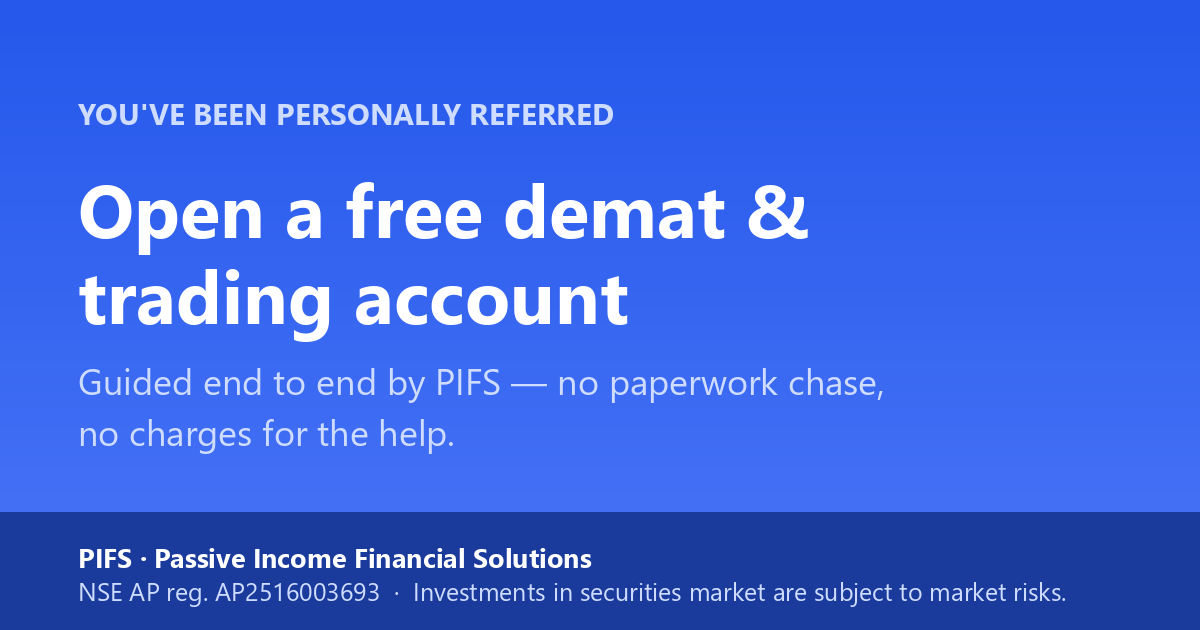
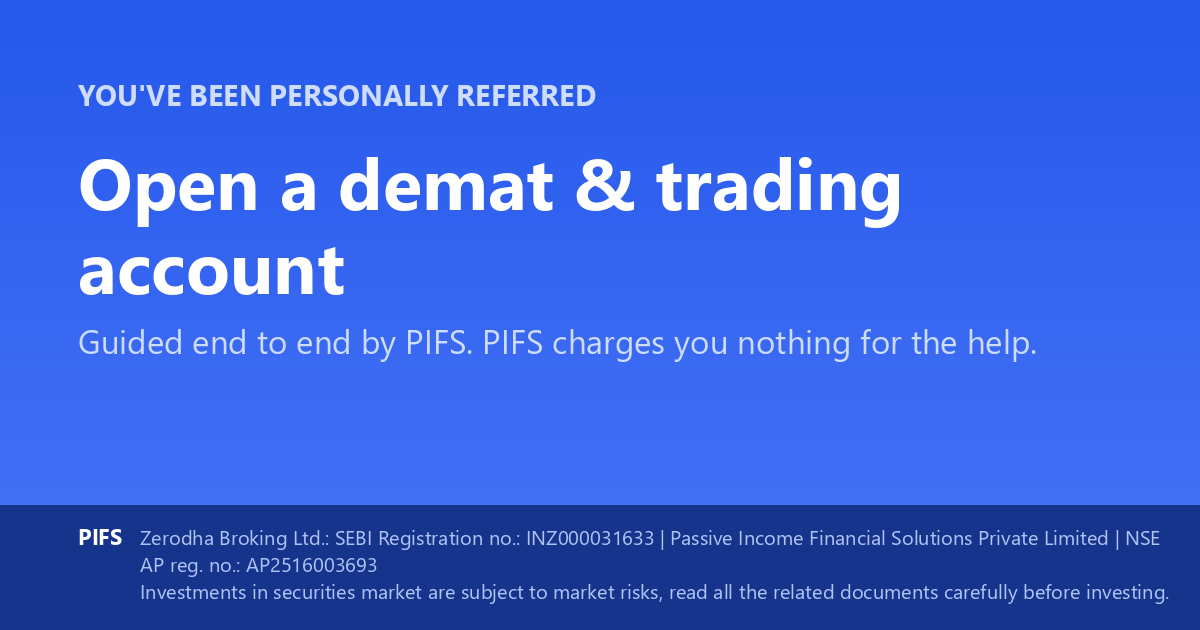
feat(hub): compliance-reviewed share copy + a real link-preview card generated from the canonical strings
The preview card every referrer forwards was a BLANK BLUE RECTANGLE with no text -
that is what WhatsApp showed for every shared referral link. Replaced with a PIFS card,
and the hub's placeholder copy replaced with copy that actually asks for the share.

An independent AP-compliance review BLOCKED the first draft; every finding is fixed here:
- 'we make sure your name is on the referral' -> a promise GoRefer is architecturally
  forbidden to make (Zoho is the only source of credit; no referrer in Zoho = no credit).
  Now: we record and pass on the referral, never calculate or hold the amount.
- 'free of charge' -> undisclosed compensation. Now states PIFS is paid by the broker as
  its Authorised Person, and that account/brokerage charges are the broker's own.
- 'Open a free demat account' on the card -> a claim about the BROKER's pricing baked into
  a raster. 'free' dropped.
- The card truncated MARKET_RISK_WARNING by 60 characters (dropping the whole 'read all
  the related documents' limb) and omitted the broker's SEBI registration from the AP
  disclosure - the two strings this codebase locks byte-exact, wrong in the highest-volume
  place they appear, uncorrectable by config.
- 'say why YOU use it' now carries an explicit fence: do not promise returns or advise.

Structural fix for the last one: the card is no longer hand-made. scripts/make_preview_card.py
RENDERS it from settings.AP_DISCLOSURE_BLOCK + settings.MARKET_RISK_WARNING and writes every
[…]

diff --git a/scripts/make_preview_card.py b/scripts/make_preview_card.py
@@ -1,0 +1,131 @@
+"""Render the PIFS referral link-preview card (1200x630 Open Graph).
+
+WHY THIS IS A GENERATOR AND NOT A HAND-MADE IMAGE
+-------------------------------------------------
+The card is the highest-volume surface the compliance strings ever appear on: every
+referrer forwards it to every friend. Text baked into a raster cannot be corrected by a
+config change, so a hand-drawn card is the one place `MARKET_RISK_WARNING` and
+`AP_DISCLOSURE_BLOCK` can silently drift out of date (2026-08-08 compliance review: the
+first hand-made card truncated the statutory warning by 60 characters and omitted the
+broker's SEBI registration entirely).
+
+So the card is GENERATED from `gorefer.settings` — the same byte-exact constants every
+page renders — and every string it draws is also written to a sidecar
+`static/img/referral-preview-card.txt`. `tests/test_preview_card_compliance.py` asserts
+that sidecar still matches settings, so editing a compliance string without regenerating
+the card FAILS CI instead of shipping a stale legal line.
+
+Run after any change to the compliance constants or the card design:
+
+    python scripts/make_preview_card.py     # needs Pillow (dev-only, not a runtime dep)
+
+Design constraints (CLAUDE.md §4, ADR-014): PIFS-branded, no partner logo or trademark,
+must not resemble the partner's own assets. The broker is NAMED in the disclosure line
+because an Authorised Person must disclose its principal — naming is disclosure, not
+impersonation; a card that names no broker implies PIFS opens the accounts itself.
+"""
+from __future__ import annotations
+
+import os
+import sys
+from pathlib import Path
+
+import django
+from PIL import Image, ImageDraw, ImageFont
+
+ROOT = Path(__file__).resolve().parent.parent
+sys.path.insert(0, str(ROOT))
+os.environ.setdefault("DJANGO_SETTINGS_MODULE", "gorefer.settings")
+django.setup()
+
+from django.conf import settings  # noqa: E402
+
+W, H = 1200, 630
+COBALT_TOP = (37, 88, 235)
+COBALT_BOT = (67, 112, 245)
+BAR = (23, 52, 140)
+WHITE = (255, 255, 255)
+SOFT = (206, 220, 255)
+FAINT = (176, 196, 246)
+
+BOLD = ["C:/Windows/Fonts/segoeuib.ttf", "C:/Windows/Fonts/arialbd.ttf",
+        "/usr/share/fonts/truetype/dejavu/DejaVuSans-Bold.ttf"]
+REG = ["C:/Windows/Fonts/segoeui.ttf", "C:/Windows/Fonts/arial.ttf",
+       "/usr/share/fonts/truetype/dejavu/DejaVuSans.ttf"]
+
+HEADLINE = "Open a demat & trading account"
+EYEBROW = "YOU'VE BEEN PERSONALLY REFERRED"
+SUBLINE = "Guided end to end by PIFS. PIFS charges you nothing for the help."
+
+
+def _font(paths: list[str], size: int) -> ImageFont.FreeTypeFont:
+    for p in paths:
+        try:
+            return ImageFont.truetype(p, size)
+        except OSError:
+            continue
+    return ImageFont.load_default()
+
+
+def _wrap(draw: ImageDraw.ImageDraw, text: str, font, max_w: int) -> list[str]:
+    words, lines, cur = text.split(), [], ""
+    for w in words:
+        trial = f"{cur} {w}".strip()
+        if draw.textlength(trial, font=font) <= max_w:
+            cur = trial
+        else:
+            if cur:
+                lines.append(cur)
+            cur = w
+    if cur:
+        lines.append(cur)
+    return lines
+
+
+def build() -> tuple[Image.Image, list[str]]:
+    img = Image.new("RGB", (W, H), COBALT_TOP)
+    d = ImageDraw.Draw(img)
+
+    f_eyebrow = _font(BOLD, 29)
+    f_h1 = _font(BOLD, 72)
+    f_sub = _font(REG, 33)
+    f_legal = _font(REG, 20)
+    f_legalb = _font(BOLD, 22)
+
+    x, inner = 78, W - 156
+    legal_lines = _wrap(d, settings.AP_DISCLOSURE_BLOCK, f_legal, inner)
+    legal_lines += _wrap(d, settings.MARKET_RISK_WARNING, f_legal, inner)
+    bar_h = 44 + len(legal_lines) * 27
+
+    for y in range(H - bar_h):
+        t = y / max(1, H - bar_h - 1)
+        d.line([(0, y), (W, y)], fill=tuple(
+            int(COBALT_TOP[i] + (COBALT_BOT[i] - COBALT_TOP[i]) * t) for i in range(3)))
+    d.rectangle([0, H - bar_h, W, H], fill=BAR)
+
+    d.text((x, 74), EYEBROW, font=f_eyebrow, fill=SOFT)
+    for i, line in enumerate(_wrap(d, HEADLINE, f_h1, inner)):
+        d.text((x, 132 + i * 84), line, font=f_h1, fill=WHITE)
+    for i, line in enumerate(_wrap(d, SUBLINE, f_sub, inner)):
+        d.text((x, 318 + i * 44), line, font=f_sub, fill=SOFT)
+
+    d.text((x, H - bar_h + 16), "PIFS", font=f_legalb, fill=WHITE)
+    for i, line in enumerate(legal_lines):
+        d.text((x + 62, H - bar_h + 18 + i * 27), line, font=f_legal, fill=FAINT)
+
+    return img, [EYEBROW, HEADLINE, SUBLINE, settings.AP_DISCLOSURE_BLOCK,
+                 settings.MARKET_RISK_WARNING]
+
+
+def main() -> int:
+    img, strings = build()
+    png = ROOT / "static" / "img" / "referral-preview-card.png"
+    img.save(png, "PNG", optimize=True)
+    (ROOT / "static" / "img" / "referral-preview-card.txt").write_text(
+        "\n".join(strings) + "\n", encoding="utf-8")
+    print(f"wrote {png} {img.size} + sidecar")
+    return 0
+
+
+if __name__ == "__main__":
+    raise SystemExit(main())

diff --git a/tests/test_preview_card_compliance.py b/tests/test_preview_card_compliance.py
@@ -1,0 +1,72 @@
+"""The link-preview card's baked-in legal text must match the canonical strings.
+
+The card (`static/img/referral-preview-card.png`) is a raster: what it says cannot be
+corrected by a config change, and it is the highest-volume surface the compliance strings
+appear on — every referrer forwards it to every friend. The 2026-08-08 compliance review
+caught a hand-made card that truncated `MARKET_RISK_WARNING` by 60 characters (dropping
+the whole "read all the related documents" limb) and omitted the broker's SEBI
+registration from the AP disclosure.
+
+`scripts/make_preview_card.py` now renders the card FROM `settings`, writing every string
+it drew to a sidecar `.txt`. These tests compare that sidecar against settings, so editing
+a compliance constant without re-running the generator fails here instead of shipping a
+stale statutory line to every prospect.
+"""
+from __future__ import annotations
+
+from pathlib import Path
+
+import pytest
+from django.conf import settings
+
+CARD_PNG = Path(settings.BASE_DIR) / "static" / "img" / "referral-preview-card.png"
+CARD_TXT = Path(settings.BASE_DIR) / "static" / "img" / "referral-preview-card.txt"
+
+
+def _sidecar() -> str:
+    if not CARD_TXT.exists():  # pragma: no cover - guarded by its own test below
+        pytest.fail(
+            "referral-preview-card.txt is missing — run `python scripts/make_preview_card.py`"
+        )
+    return CARD_TXT.read_text(encoding="utf-8")
+
+
+def test_card_and_its_sidecar_are_committed():
+    assert CARD_PNG.exists(), "the preview card PNG is missing from static/img/"
+    assert CARD_TXT.exists(), "the card's text sidecar is missing — regenerate the card"
+
+
+def test_card_carries_the_market_risk_warning_byte_exact():
+    """Not 'contains a risk warning' — the canonical sentence, whole and unaltered."""
+    assert settings.MARKET_RISK_WARNING in _sidecar(), (
+        "the card's risk warning has drifted from settings.MARKET_RISK_WARNING — "
+        "re-run scripts/make_preview_card.py after changing the constant"
+    )
+
+
+def test_card_carries_the_full_ap_disclosure_block():
+    """Including the broker's name + SEBI registration: an AP must disclose its principal."""
+    assert settings.AP_DISCLOSURE_BLOCK in _sidecar(), (
+        "the card's AP disclosure has drifted from settings.AP_DISCLOSURE_BLOCK — "
+        "re-run scripts/make_preview_card.py after changing the constant"
+    )
+
+
+def test_card_makes_no_free_account_claim():
+    """'free demat account' is a claim about the BROKER's pricing that PIFS cannot make.
+
+    PIFS may say it charges the customer nothing for its own help; it may not describe the
+    account itself as free (AMC and brokerage are the broker's, and are not zero).
+    """
+    body = _sidecar().lower()
+    assert "free demat" not in body and "free trading" not in body
+    assert "open a free" not in body
+
+
+def test_card_names_no_partner_trademark_beyond_the_required_disclosure():
+    """ADR-014: the partner may be NAMED in the disclosure, never used as branding."""
+    sidecar = _sidecar()
+    headline_block = "\n".join(sidecar.splitlines()[:3])  # eyebrow, headline, subline
+    assert "Zerodha" not in headline_block, (
+        "the partner brand belongs only in the disclosure line, not in the card's headline"
+    )

diff --git a/apps/config/preferences.py b/apps/config/preferences.py
@@ -71,23 +71,27 @@ SHARE_HUB_OG_IMAGE_DEFAULT = "img/referral-preview-card.png"
 
 SHARE_HUB_HEADLINE_DEFAULT = "Your referral link is ready"
 SHARE_HUB_INTRO_DEFAULT = (
-    "Send it to one person today. Everyone who opens an account through this link is "
-    "recorded against your Client ID automatically."
+    "Send it to one person today. When someone opens an account through this link, "
+    "the referral is recorded against your Client ID."
 )
 SHARE_HUB_BENEFITS_HEADING_DEFAULT = "What you get"
 SHARE_HUB_BENEFITS_DEFAULT = [
-    "Your reward is credited by the broker's own referral programme — we make sure your "
-    "name is on the referral, and never touch the amount.",
+    "Any reward comes from the broker's own referral programme, on their terms. We "
+    "record the referral against your Client ID and pass it on — we never calculate, "
+    "hold or add to the amount.",
     "Every referral is tracked against your Client ID automatically. No forms, no "
     "follow-up calls, nothing to remember.",
-    "Your friend is guided through account opening end to end by PIFS, free of charge.",
+    "Your friend is guided through account opening end to end by PIFS. PIFS charges "
+    "your friend nothing for this help; PIFS is paid by the broker as its Authorised "
+    "Person. Account and brokerage charges are the broker's own.",
     "Open your record any time to see exactly where each person has reached.",
 ]
 SHARE_HUB_GUIDANCE_HEADING_DEFAULT = "How to share so it actually works"
 SHARE_HUB_GUIDANCE_DEFAULT = [
     "One direct message beats ten group posts. Send it to a person, not to a crowd.",
-    "Say why YOU use it in your own words, then paste the link — people act on your "
-    "reason, not on an advertisement.",
+    "Say why YOU use it in your own words — your own experience of opening and using "
+    "the account. Do not promise returns or advise anyone on what to invest in; leave "
+    "that to them and their own research.",
     "Start with family and friends who have already asked you about investing.",
     "If someone shows interest but goes quiet, one short reminder the next day helps "
     "far more than sending the link again.",

diff --git a/tests/test_t053_share_hub.py b/tests/test_t053_share_hub.py
@@ -240,7 +240,9 @@ def test_the_link_preview_uses_a_config_keyed_brand_image(client, seeded):
 
     body = client.get(f"/hub/{token}").content.decode()
     assert 'property="og:image"' in body
-    assert "/static/img/og-card.png" in body, "the committed placeholder card is not served"
+    assert "/static/img/referral-preview-card.png" in body, (
+        "the committed brand card is not served"
+    )
 
     # An operator can point the key at an absolute CDN URL with no deploy.
     ConfigCentral.objects.update_or_create(
